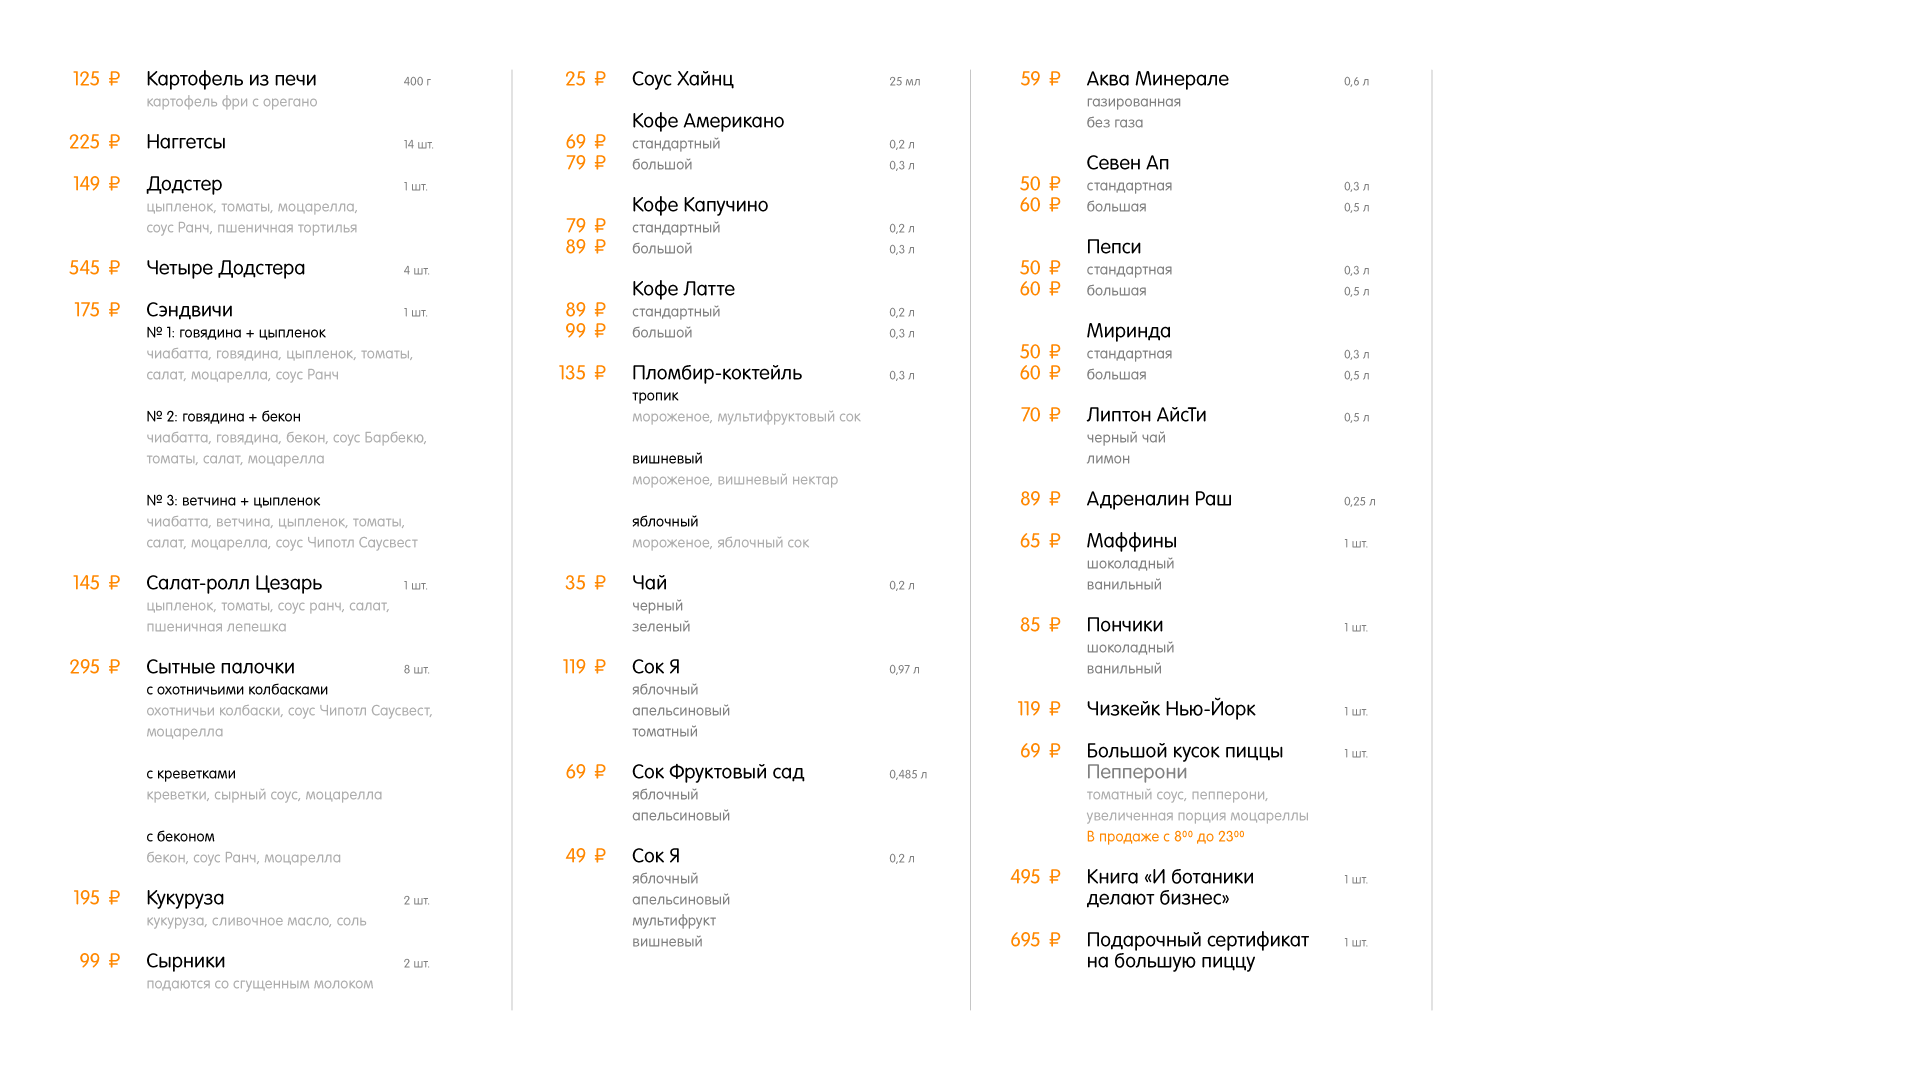
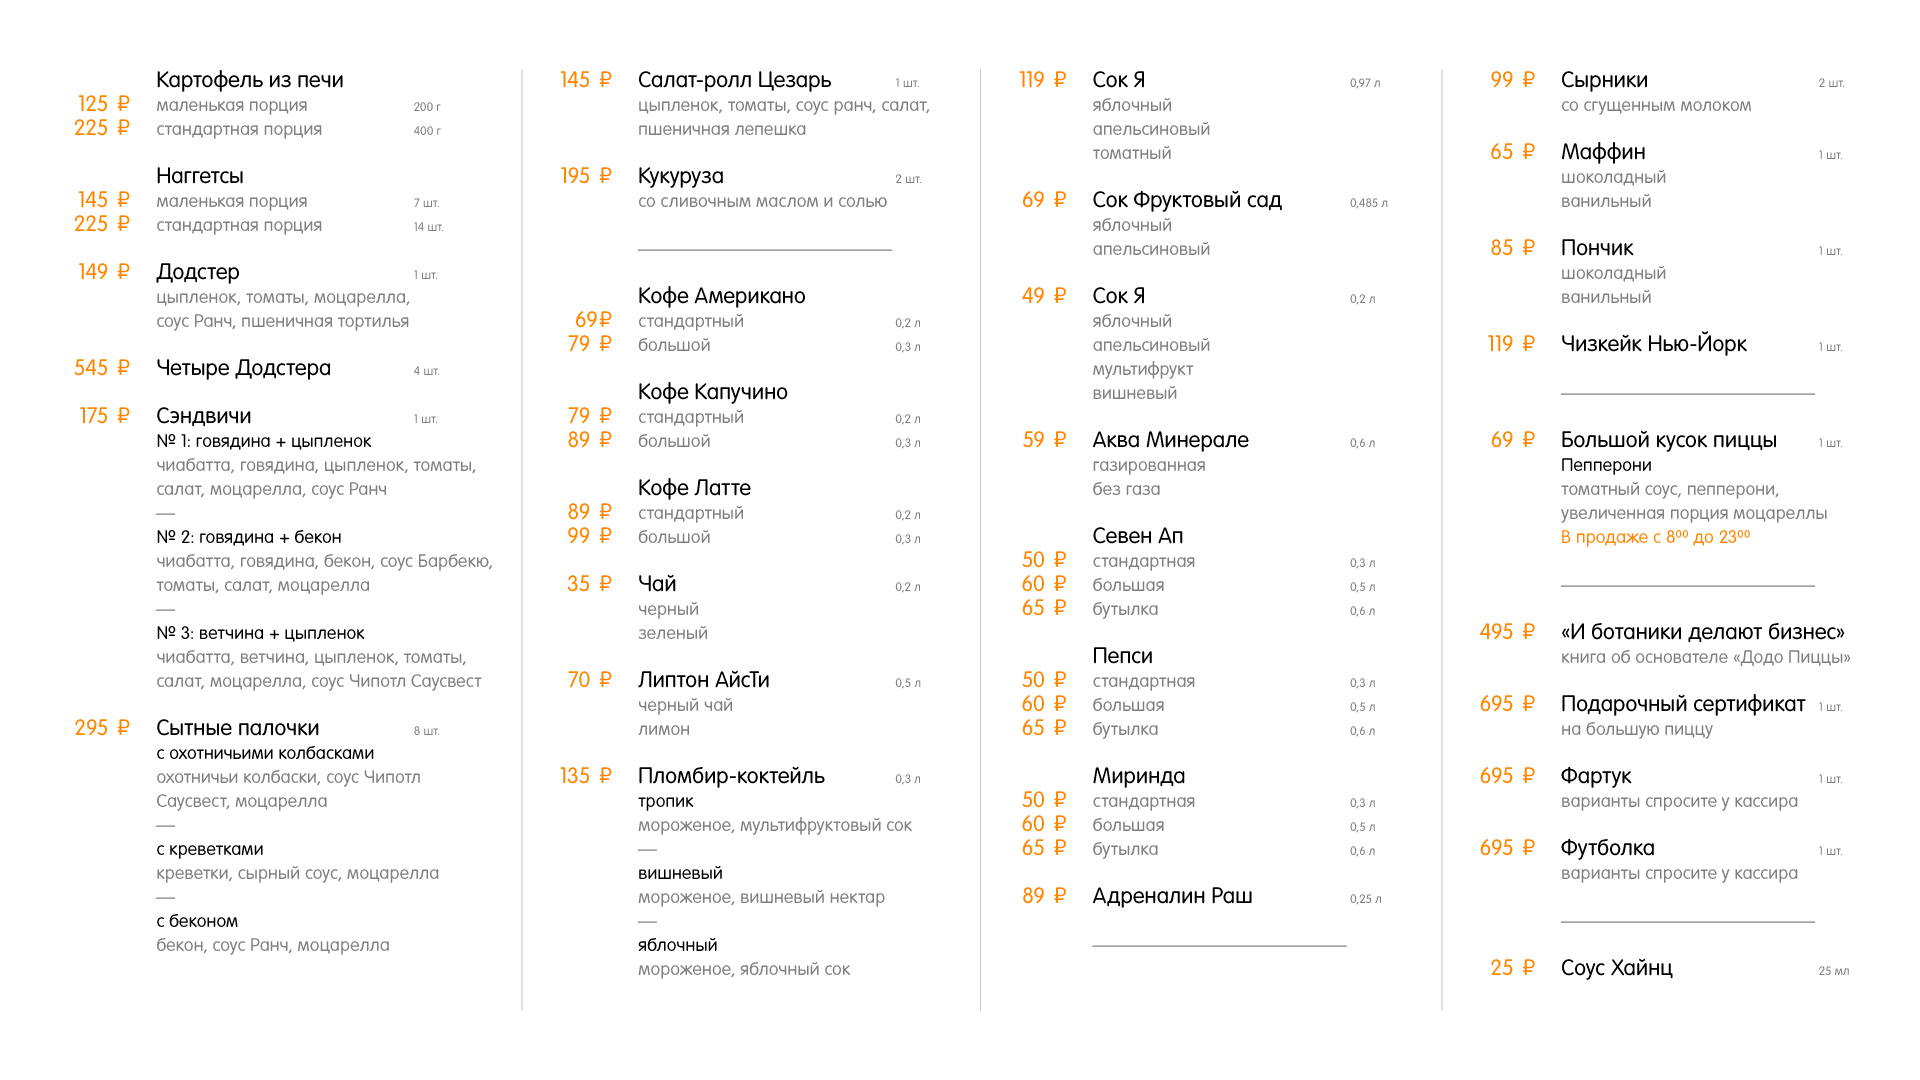
TV-menu Edited

diff --git a/tv/v2.1/index-2.htm b/tv/v2.1/index-2.htm
@@ -8,7 +8,7 @@
 
 <body style="margin: 0; padding: 0;">
 <div style="width: 100%; height: 100%">
-<a href="index.htm"><img src="assets/RU-LCD-Board-All-in-One-Snacks-Pervomayskaya.png" width="1920" height="1080" alt="" title="" border="0" style="max-width: 100%; height: auto;" /></a>
+<a href="index.htm"><img src="assets/RU-LCD-Board-Morn-Pizza.png" width="1920" height="1080" alt="" title="" border="0" style="max-width: 100%; height: auto;" /></a>
 </div>
 </body>
 </html>
